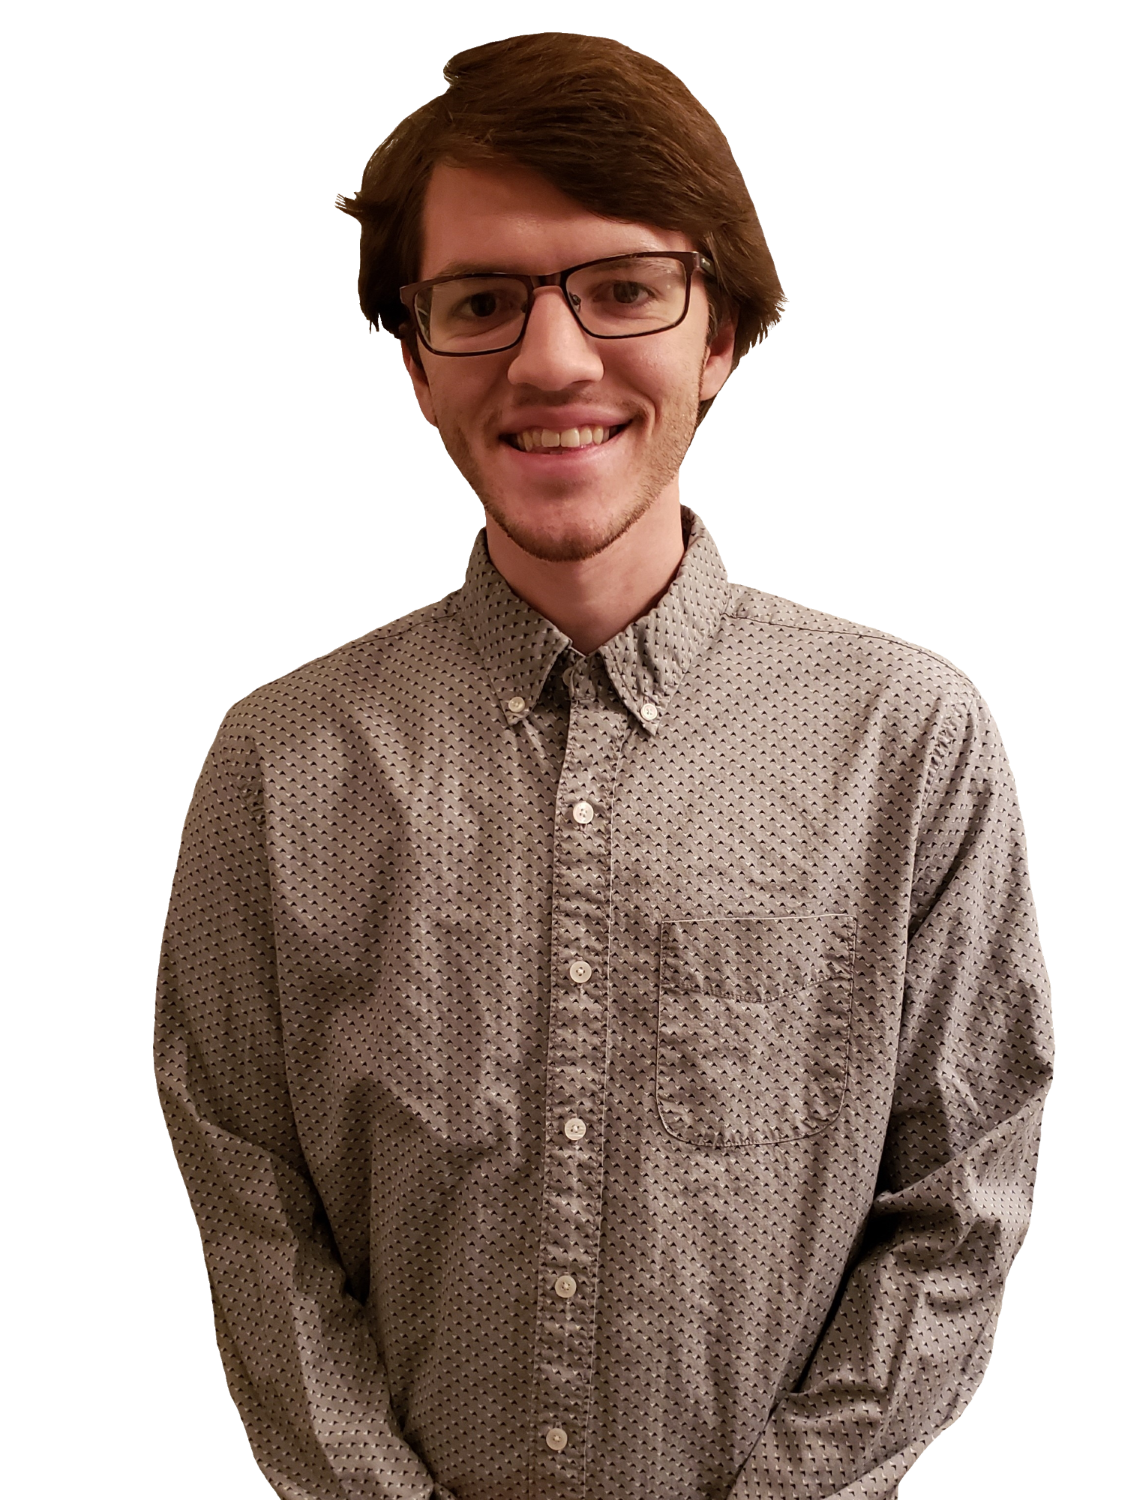
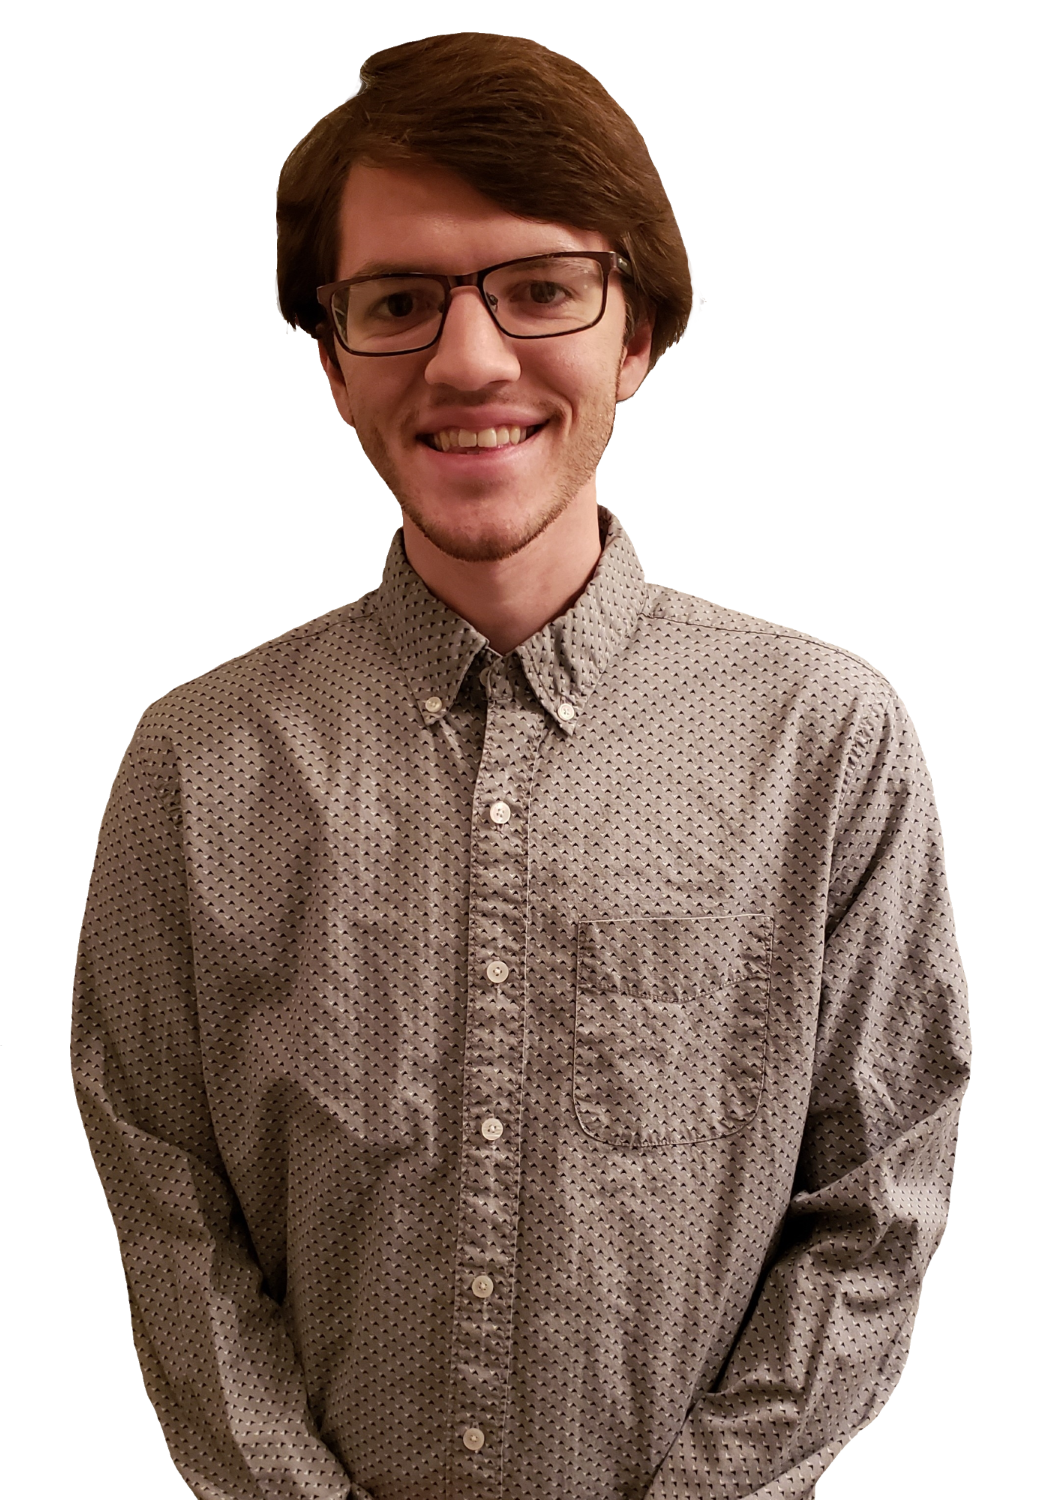
Fixed image file sizes, aspect ratio on image, and lighthouse fixes.

diff --git a/PersonalWebsite/src/app/project-portfolio/project-portfolio.component.scss b/PersonalWebsite/src/app/project-portfolio/project-portfolio.component.scss
@@ -75,7 +75,7 @@
                 letter-spacing: 5px;
               }
 
-              h3 {
+              h2 {
                 font-style: italic;
               }
 
@@ -158,7 +158,7 @@
                 h1 {
                   font-size: 2.3em;
                 }
-                h3 {
+                h2 {
                   font-size: 1.7em;
                 }
               }
@@ -190,7 +190,7 @@
                 h1 {
                   font-size: 2.2em;
                 }
-                h3 {
+                h2 {
                   font-size: 1.6em;
                 }
               }
@@ -247,7 +247,7 @@
                 h1 {
                   font-size: 2.1em;
                 }
-                h3 {
+                h2 {
                   font-size: 1.5em;
                 }
                 p {
@@ -300,7 +300,7 @@
                 h1 {
                   font-size: 1.9em;
                 }
-                h3 {
+                h2 {
                   font-size: 1.4em;
                 }
                 p {
@@ -340,7 +340,7 @@
                 h1 {
                   font-size: 1.7em;
                 }
-                h3 {
+                h2 {
                   font-size: 1.3em;
                 }
                 p {
@@ -380,7 +380,7 @@
                 h1 {
                   font-size: 1.5em;
                 }
-                h3 {
+                h2 {
                   font-size: 1.2em;
                 }
                 p {
@@ -420,7 +420,7 @@
                 h1 {
                   font-size: 1.3em;
                 }
-                h3 {
+                h2 {
                   font-size: 1.1em;
                 }
                 p {

diff --git a/PersonalWebsite/src/index.html b/PersonalWebsite/src/index.html
@@ -19,9 +19,9 @@
   <script src="https://stackpath.bootstrapcdn.com/bootstrap/4.3.1/js/bootstrap.min.js"
     integrity="sha384-JjSmVgyd0p3pXB1rRibZUAYoIIy6OrQ6VrjIEaFf/nJGzIxFDsf4x0xIM+B07jRM"
     crossorigin="anonymous"></script>
-  <script src="https://kit.fontawesome.com/00c0cd9a8e.js" crossorigin="anonymous"></script>
+  <script async="true"  src="https://kit.fontawesome.com/00c0cd9a8e.js" crossorigin="anonymous"></script>
   <!-- Global site tag (gtag.js) - Google Analytics -->
-  <script async="" src="https://www.googletagmanager.com/gtag/js?id=UA-158141845-1"></script>
+  <script async="true" src="https://www.googletagmanager.com/gtag/js?id=UA-158141845-1"></script>
   <script>
     window.dataLayer = window.dataLayer || [];
     function gtag() { dataLayer.push(arguments); }

diff --git a/PersonalWebsite/src/app/project-portfolio/project-portfolio.component.html b/PersonalWebsite/src/app/project-portfolio/project-portfolio.component.html
@@ -23,8 +23,8 @@
                         <div class="col right-side">
                             <div class="project-details-container">
                                 <h1>{{ project.name }}</h1>
-                                <h3>Language: {{ project.language }}</h3>
-                                <h3>Created: {{ project.date }}</h3>
+                                <h2>Language: {{ project.language }}</h2>
+                                <h2>Created: {{ project.date }}</h2>
                                 <p>{{ project.description }}</p>
                                 <a *ngIf="project.name === 'Legacy Website'" [href]="project.link"
                                     target="_blank">{{ project.linkDescription }}</a>

diff --git a/PersonalWebsite/src/app/app.component.html b/PersonalWebsite/src/app/app.component.html
@@ -55,7 +55,10 @@
 
     <div id="easterEgg" *ngIf="classReference.mainPage">
       <a routerLink="/arcade-page-component" routerLinkActive="active" (click)="arcadeClick()">
-        <img src="../assets/blocks.png" alt="Secret Arcade">
+        <picture>
+          <source type="image/webp" srcset="../assets/blocks.webp">
+          <img src="../assets/blocks.png" alt="Secret Arcade">
+        </picture>
       </a>
     </div>
 

diff --git a/PersonalWebsite/src/app/hero-intro/hero-intro.component.scss b/PersonalWebsite/src/app/hero-intro/hero-intro.component.scss
@@ -23,10 +23,17 @@
         }
       }
       .hero-image {
+        padding: 0;
+
         img {
           filter: grayscale(100%);
-          width: 100%;
-          height: 100%;
+          max-width: 100%;
+          height: auto;
+          max-height: 100%;
+          bottom: 0;
+          position: absolute;
+          left: 50%;
+          transform: translate(-50%);
         }
       }
     }

diff --git a/PersonalWebsite/src/app/app.component.scss b/PersonalWebsite/src/app/app.component.scss
@@ -156,8 +156,10 @@
       left: 15px;
       bottom: 101%;
       cursor: pointer;
+      
       img {
-        width: 50px;
+        width: 55px;
+        height: auto;
         transition: 0.3s;
       }
       img:hover {
